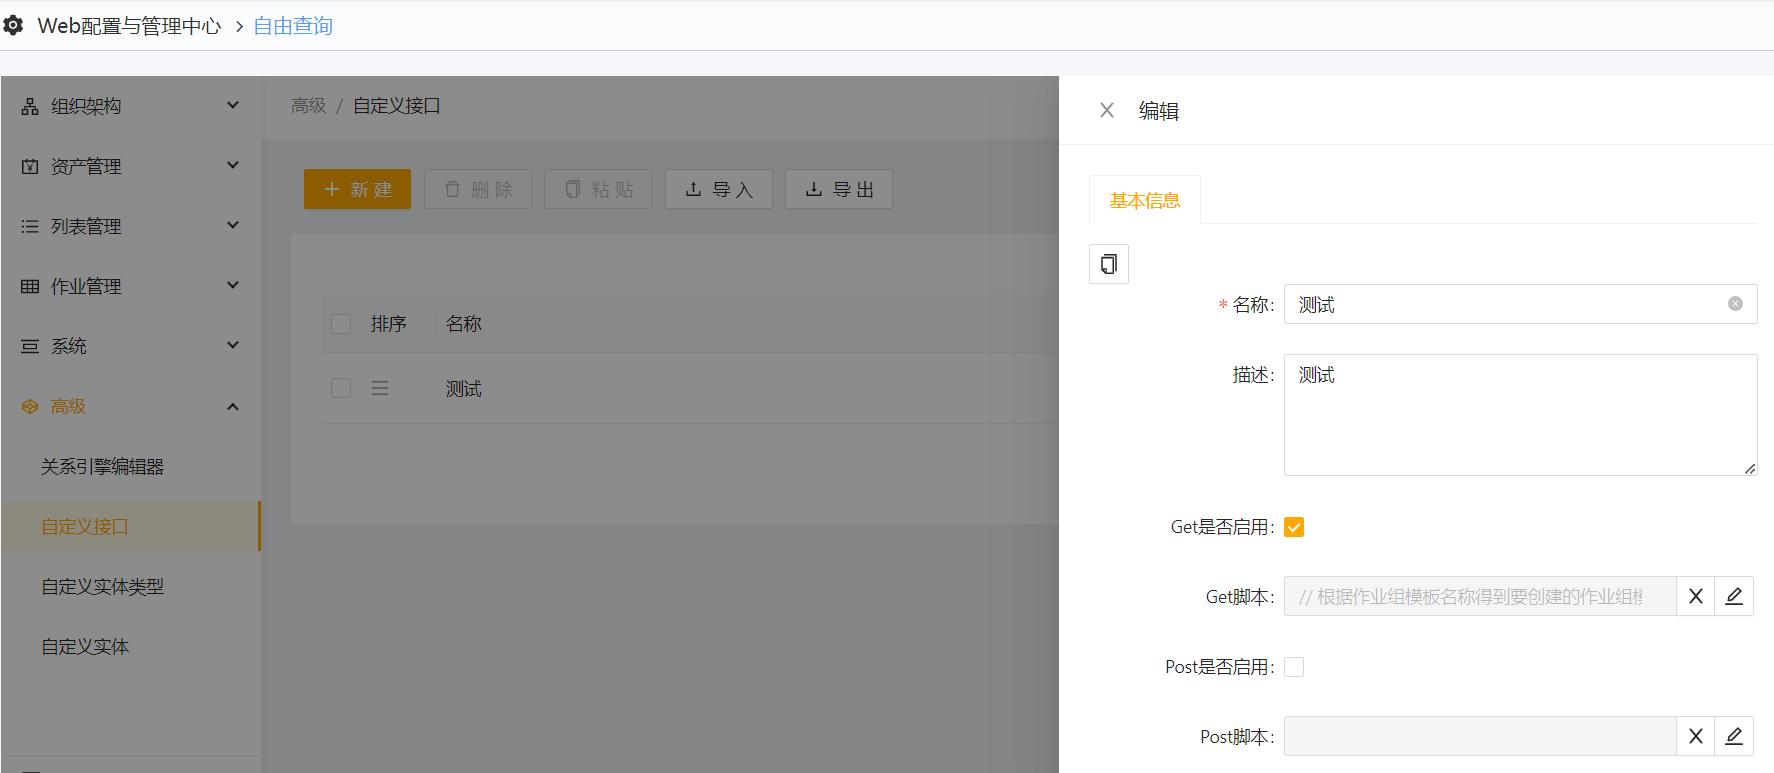
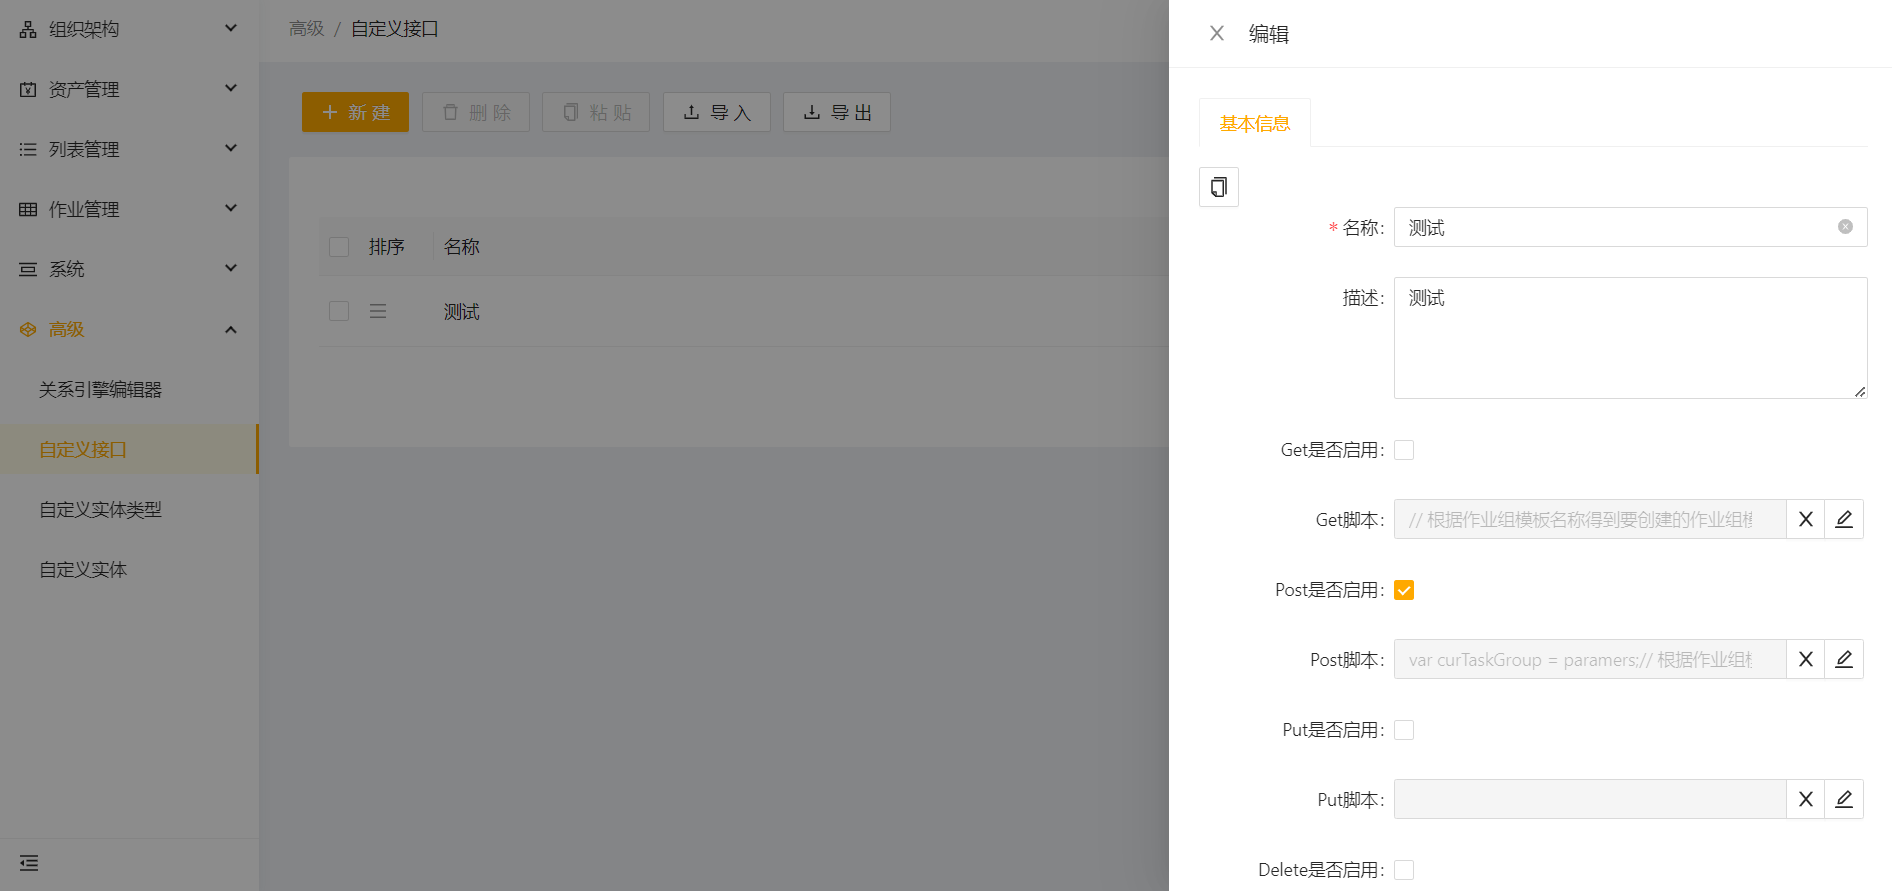
修改4.3.0发布说明

diff --git a/docs/发布说明/4.3.0发布说明.md b/docs/发布说明/4.3.0发布说明.md
@@ -6,7 +6,6 @@ import useBaseUrl from '@docusaurus/useBaseUrl';
 ## 增加的功能
 
 1. [implus-22：Web端库存表支持通过选择作业组来实现库操作](#implus-22web端库存表支持通过选择作业组来实现库操作)
-1. [implus-23：优化Web端界面](#implus-23优化web端界面)
 1. [implus-24：增加系统角色和粒度更细的权限控制](#implus-24增加系统角色和粒度更细的权限控制)
 1. [implus-25：统一的Web配置和管理中心](#implus-25统一的web配置和管理中心)
 1. [implus-63：改进部署工具](#implus-63改进部署工具)
@@ -93,27 +92,9 @@ import useBaseUrl from '@docusaurus/useBaseUrl';
 
 * 之后，在库存表界面以作业组操作就可以通过编辑库存操作的作业组属性，来完成库操作了，相当于在库存表页面可以直接计划或创建一个库存操作的作业组。
 
-### implus-23：优化Web端界面
-
-* 主页增加待我处理的工作Widget（代办中心），同时增加今日计划和今日作业组Widget。
-
-  <img alt=" " src={useBaseUrl('docimg/主页4301.png')} />
-
-* 管理导航时，人员可选择超级管理员。
-
-  <img alt=" " src={useBaseUrl('docimg/导航4301.png')} />
-
-* 计划显示时，如果某个计划已归档，则计划头部颜色固定为深绿色。
-
-  <img alt=" " src={useBaseUrl('docimg/计划4301.png')} />
-
-* 计划选择作业组模板时，如果右边有筛选，则只能选择这些已选中的作业组模板。
-
-  <img alt=" " src={useBaseUrl('docimg/计划4302.png')} />
-
 ### implus-24：增加系统角色和粒度更细的权限控制
 
-* 在Web配置和管理中心-系统中，新增了系统角色的配置，在web配置中进行配置后，可以在Web配置和管理中心的用户基本属性或SDC的用户基本属性中，为用户选择配置好的系统角色，以此来控制用户在Web配置和管理中心里的权限。（注意：目前EOC和终端，目前不受此权限控制，后续会进行整合。）
+* 在Web配置和管理中心-系统中，新增了系统角色的配置，在web配置中进行配置后，可以在Web配置和管理中心的用户基本属性或SDC的用户基本属性中，为用户选择配置好的系统角色，以此来控制用户在Web配置和管理中心里的权限。（注意：目前EOC和终端，不受此权限控制，后续会进行整合。）
 
   <img alt=" " src={useBaseUrl('docimg/系统角色4301.png')} />
 
@@ -291,7 +272,33 @@ import useBaseUrl from '@docusaurus/useBaseUrl';
 
 ### implus-225：SMC细节优化
 
+* 同步端口8090加入到配置里，在SMC系统设置-服务中，增加了同步服务监听端口的配置，可以自行设置同步的端口，不用再去同步文件中修改。
+
+  <img alt=" " src={useBaseUrl('docimg/SMC优化4301.png')} />
+
+* 增加RabbitMQ测试，将RabbitMQ的连接信息从系统设置中去掉，与Mongo一样放到右侧属性栏中，并增加测试连接。
+
+  <img alt=" " src={useBaseUrl('docimg/SMC优化4302.png')} />
+
+* 增加系统环境诊断，在SMC左上方菜单栏中，增加了系统环境诊断，可以诊断当前系统运行的服务器信息、应用版本、授权信息、数据库的运行连接情况、MongoDB和RabbitMQ服务的运行连接情况、EOC和API的连接验证、Websocket服务器的连接，以及imgenius七大服务的运行状态。
+
 ### implus-231：EOC功能优化
+
+* 主页增加待我处理的工作Widget（代办中心），同时增加今日计划和今日作业组Widget。
+
+  <img alt=" " src={useBaseUrl('docimg/主页4301.png')} />
+
+* 管理导航时，人员可选择超级管理员。
+
+  <img alt=" " src={useBaseUrl('docimg/导航4301.png')} />
+
+* 计划显示时，如果某个计划已归档，则计划头部颜色固定为深绿色。
+
+  <img alt=" " src={useBaseUrl('docimg/计划4301.png')} />
+
+* 计划选择作业组模板时，如果右边有筛选，则只能选择这些已选中的作业组模板。
+
+  <img alt=" " src={useBaseUrl('docimg/计划4302.png')} />
 
 * 逻辑行为为空的例外等级，在作业树中可以修改。在作业项逻辑中，逻辑行为为空并关联了例外等级，这种配置在作业树上，无法去修改例外等级的值。而有行为的是可以修改的。优化后，行为是空的也可以去修改。
 
@@ -532,11 +539,147 @@ if (list && list.length > 0) {
 
 ### implus-361：自定义接口
 
-* 在Web配置与管理中心里，增加了自定义接口功能，可以自己定义一个接口，在定义的接口中写好脚本。在系统需要此脚本时，可以直接调用这个接口来实现执行该脚本的功能。如果在一个解决方案中有比较多的内容和用途重复的脚本，使用此功能可以更快速简单的进行配置，并且对于脚本的管理也更清晰；而如果在解决方案中用到的脚本都是不同的，使用此功能或在配置中直接写脚本，是没有本质区别的。
+* 在Web配置与管理中心里，增加了自定义接口功能，可以自己定义一个接口，在定义的接口中写好脚本（流程后脚本）。在系统需要此脚本时，可以直接调用这个接口来实现执行该脚本的功能。
+* 如果在一个解决方案中有比较多的用途重复的脚本，使用此功能可以更快速简单的进行配置，并且对于脚本的管理也更清晰；而如果在解决方案中用到的流程后脚本都是不同的，可以选择性使用此功能。
 
   <img alt=" " src={useBaseUrl('docimg/自定义接口4301.png')} />
 
+* 以创建作业组计划为例，如图写在自定义脚本的Post脚本中并启用，完整的脚本如下：
 
+```js
+var curTaskGroup = paramers;  // 获取参数中的当前作业组对象
+
+// 根据作业组模板名称获取要创建的作业组模板
+var taskGroupTemplate = null;
+var taskGroupTemplateName = curTaskGroup.planTaskGroupName;
+var url = 'TaskGroupTemplate/GetByName?name=' + taskGroupTemplateName;
+var result = imClient.Get(url);  // 调用接口获取作业组模板
+var resultObj = JSON.parse(result);  // 解析接口返回结果为对象
+if (resultObj) {
+    if (resultObj.IsOk) {
+        taskGroupTemplate = resultObj.Response;  // 如果接口调用成功且返回结果正确，则将作业组模板赋值给taskGroupTemplate变量
+    } else {
+        imLogWriter.WriteError('根据作业组模板名称得到要创建的作业组模板 调用成功，但返回错误，错误信息为：' + resultObj.ErrorMsg);
+    }
+} else {
+    imLogWriter.WriteError('根据作业组模板名称得到要创建的作业组模板 调用失败，返回为：' + result);
+}
+
+if (!taskGroupTemplate) {
+    imLogWriter.WriteError('“' + taskGroupTemplateName + '” 作业组模板不存在，无法创建计划');
+} else {
+    // 获取当前作业组所有属性，将需要同步的属性复制到新创建的作业组中
+    var taskGroupPropertyList = null;
+    var url = 'Report/GetTaskGroupProperties?taskGroupID=' + curTaskGroup.ID;
+    var result = imClient.Get(url);  // 调用接口获取作业组属性列表
+    var resultObj = JSON.parse(result);  // 解析接口返回结果为对象
+    if (resultObj) {
+        if (resultObj.IsOk) {
+            taskGroupPropertyList = resultObj.Response;  // 如果接口调用成功且返回结果正确，则将作业组属性列表赋值给taskGroupPropertyList变量
+        } else {
+            imLogWriter.WriteError('获取当前作业组所有属性 调用成功，但返回错误，错误信息为：' + resultObj.ErrorMsg);
+        }
+    } else {
+        imLogWriter.WriteError('获取当前作业组所有属性 调用失败，返回为：' + result);
+    }
+
+    // 赋值新创建作业组的属性值
+    var createOrderProperty = null;
+    var newTaskGroupProperties = [];
+    if (taskGroupPropertyList && taskGroupPropertyList.length > 0) {
+        for (var index = 0; index < taskGroupPropertyList.length; index++) {
+            var tp = taskGroupPropertyList[index];
+            if (tp.Name == '创建的工单')
+                createOrderProperty = tp;  // 找到名称为"创建的工单"的属性，并将其赋值给createOrderProperty变量
+            else if (tp.Name == '界区')
+                newTaskGroupProperties.push({ PropertyName: tp.Name, Value: tp.Value });  // 将名称为"界区"的属性添加到newTaskGroupProperties数组中
+        }
+    }
+    // 设置"来源工单"属性
+    var source = [{ ID: curTaskGroup.ID, Name: curTaskGroup.Name }];
+    newTaskGroupProperties.push({ PropertyName: '来源工单', Value: JSON.stringify(source) });
+
+    // 构造创建计划的参数
+    var startTime = lib.System.DateTime.Now.AddHours(1).ToString('yyyy-MM-dd HH:mm:ss');
+    var endtime = lib.System.DateTime.Now.AddHours(3).ToString('yyyy-MM-dd HH:mm:ss');
+    var modifyName = taskGroupTemplate.Name + ' - 修改后的名称';
+    var modifyDesc = taskGroupTemplate.Description + ' - 修改后的描述';
+    var plan = {
+        TaskGroupID: taskGroupTemplate.ID,
+        PlanStatus: 2,
+        Name: taskGroupTemplate.Name,
+        IsModifyTaskGroupNameDescription: true,
+        ModifyTaskGroupName: modifyName,
+        ModifyTaskGroupDescription: modifyDesc,
+        PlanTime: {
+            StartTime: startTime,
+            EndTime: endtime,
+            RepeatedModeType: 1,
+            RepeatedRange: {
+                EndTimeType: 1
+            }
+        },
+        SetTaskGroupProperties: JSON.stringify(newTaskGroupProperties)
+    };
+
+    // 调用接口创建计划
+    var newTaskGroupID = '';
+    var result = imClient.Post('Schedule/CreateTaskGroup', JSON.stringify(plan));  // 调用接口创建新的作业组计划
+    var resultObj = JSON.parse(result);  // 解析接口返回结果为对象
+    if (resultObj) {
+        if (resultObj.IsOk) {
+            newTaskGroupID = resultObj.Response.TaskGroupID;  // 如果接口调用成功且返回结果正确，则将新创建的作业组ID赋值给newTaskGroupID变量
+        } else {
+            imLogWriter.WriteError('创建计划 调用成功，但返回错误，错误信息为：' + resultObj.ErrorMsg);
+        }
+    } else {
+        imLogWriter.WriteError('创建计划 调用失败，返回为：' + result);
+    }
+
+    if (newTaskGroupID && createOrderProperty) {
+        // 将新创建的作业组信息写入当前作业组的"创建的工单"属性中
+        var oldValue = createOrderProperty.Value;
+        if (oldValue)
+            oldValue = JSON.parse(oldValue);
+        else
+            oldValue = [];
+        oldValue.push({ ID: newTaskGroupID, Name: modifyName });
+
+        var url = 'Report/ModifyTaskGroupPropertyValueByName?id=' + curTaskGroup.ID + '&propertyName=创建的工单&value=' + encodeURIComponent(JSON.stringify(oldValue));
+        var result = imClient.Put(url);  // 调用接口修改作业组属性
+        var resultObj = JSON.parse(result);  // 解析接口返回结果为对象
+        if (resultObj) {
+            if (resultObj.IsOk) {
+                imLogWriter.WriteInfo('修改作业组属性成功');
+            } else {
+                imLogWriter.WriteError('修改作业组属性 调用成功，但返回错误，错误信息为：' + resultObj.ErrorMsg);
+            }
+        } else {
+            imLogWriter.WriteError('修改作业组属性 调用失败，返回为：' + result);
+        }
+    }
+}
+
+return '';
+```
+
+* SDC中流程后脚本的配置如下：
+
+```js
+var url = 'Custom/测试';  // 固定写法，请求的接口路径，这是一个名为测试的自定义接口
+var body = {
+    ID: curTaskGroup.ID,  // 当前作业组的ID
+    Name: curTaskGroup.Name,  // 当前作业组的名称
+    planTaskGroupName: '隐患整改'  // 需要创建的作业组名称
+}
+imClient.Post(url, JSON.stringify(body));  // 调用接口，向服务器发送POST请求，将body数据作为请求体传递给服务器
+
+// 使用POST方法调用了名为’Custom/测试’的接口，将一个包含当前作业组ID、名称和计划作业组名称的JSON串作为请求体发送给服务器
+```
+
+* 自定义接口跟直接在作业组属性更多设置里写流程后脚本有所不同，没有当前作业组这个概念，所以需要通过传入的参数获取要创建的作业组模板，并进行判断是否存在。因此，需要通过`var curTaskGroup = paramers;`获取在SDC中定义好的参数，SDC脚本中的body，在自定义接口中为paramers，所以这一句是获取body的作用。body中可以看到，设置好了一些参数，这个是根据流程后脚本中需要的参数来设定的。简单来说，自定义接口中的脚本就是一个通用的脚本，SDC脚本中只需要改需要创建的作业组名称就可以了。
+
+  <img alt=" " src={useBaseUrl('docimg/自定义接口4302.png')} />
 
 ### implus-381：终端功能优化
 
